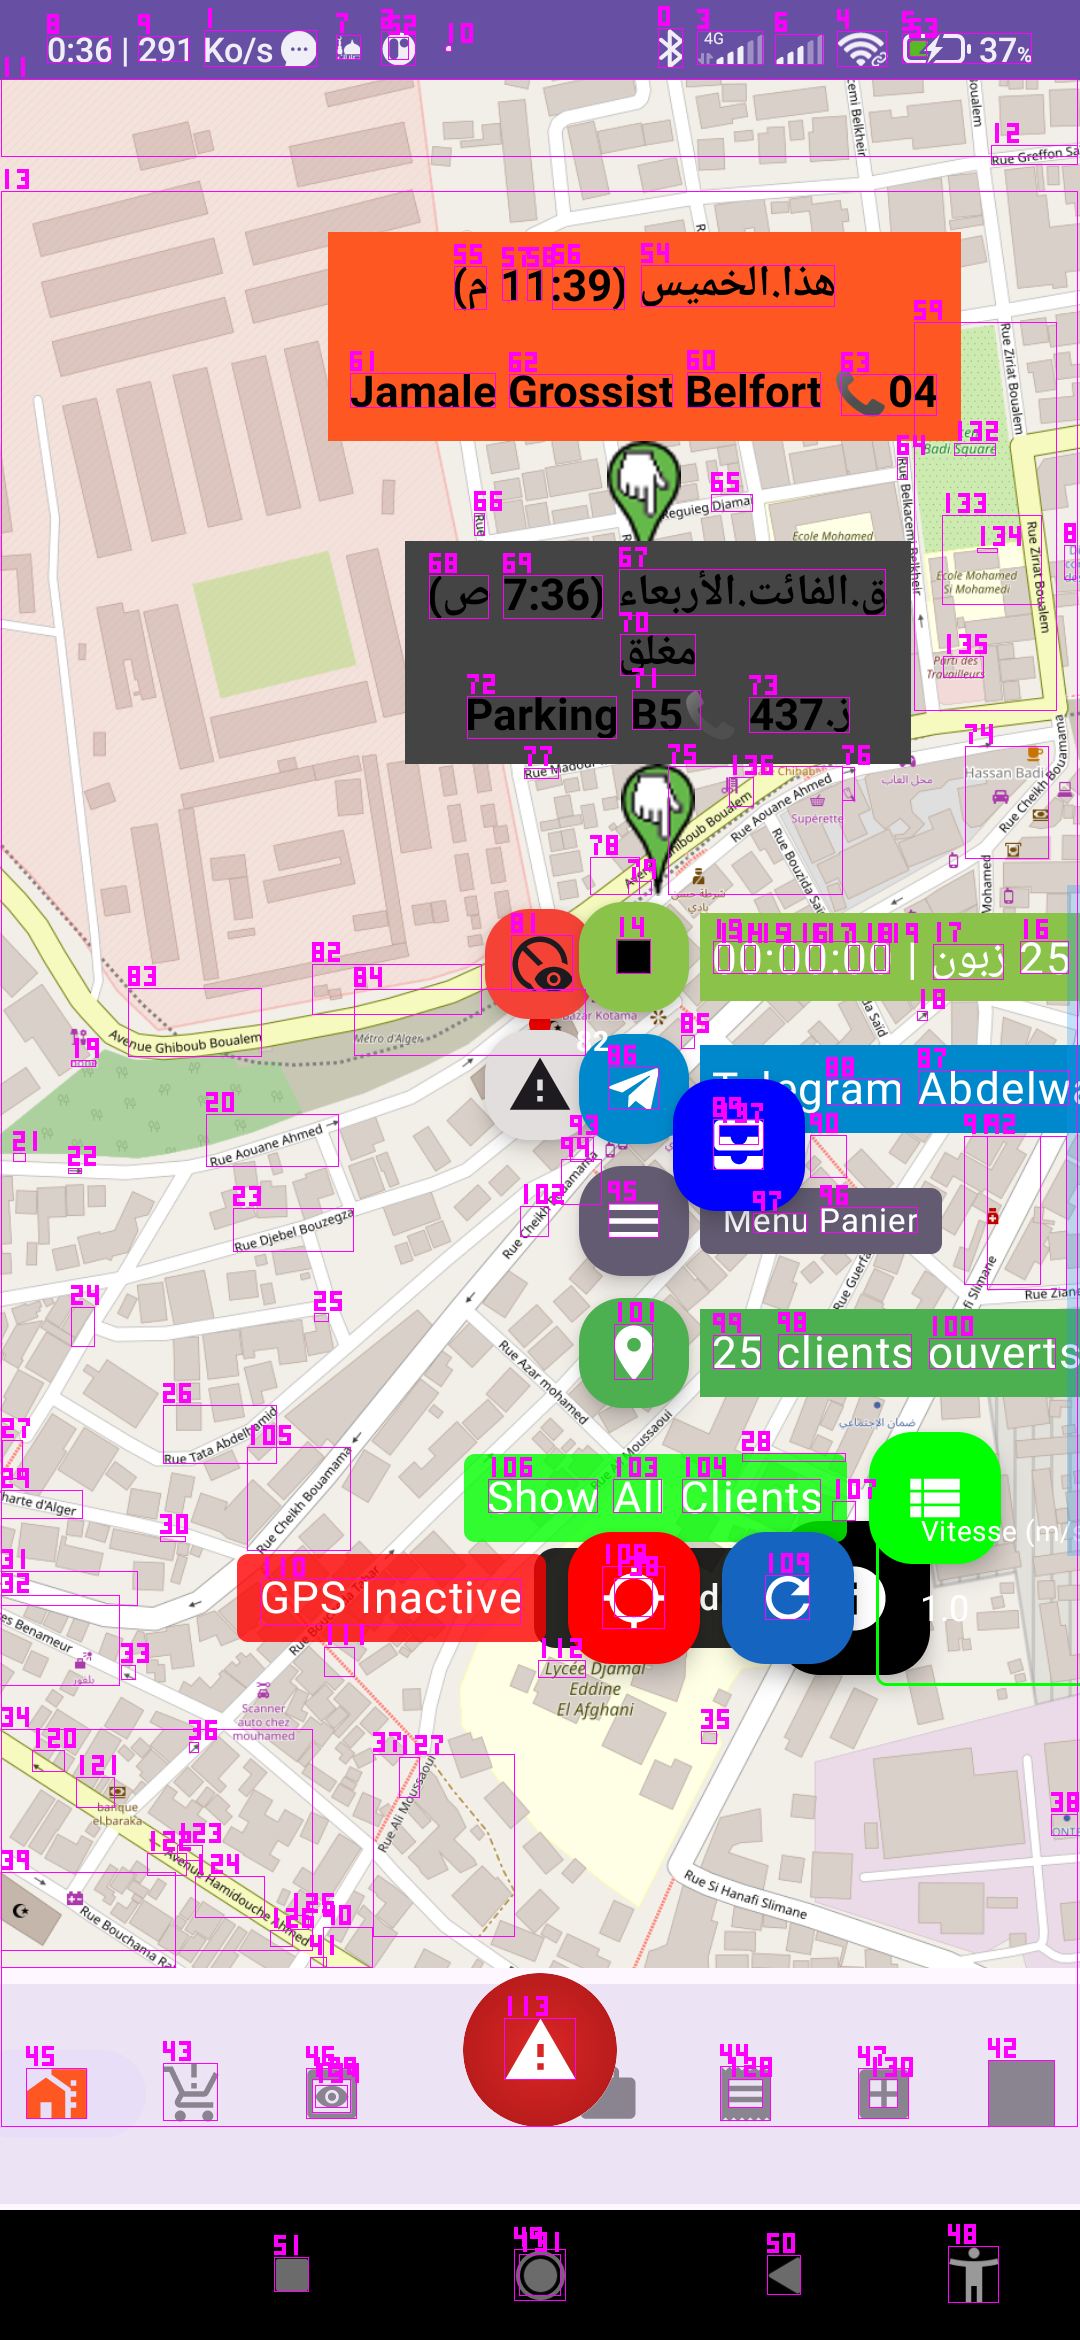
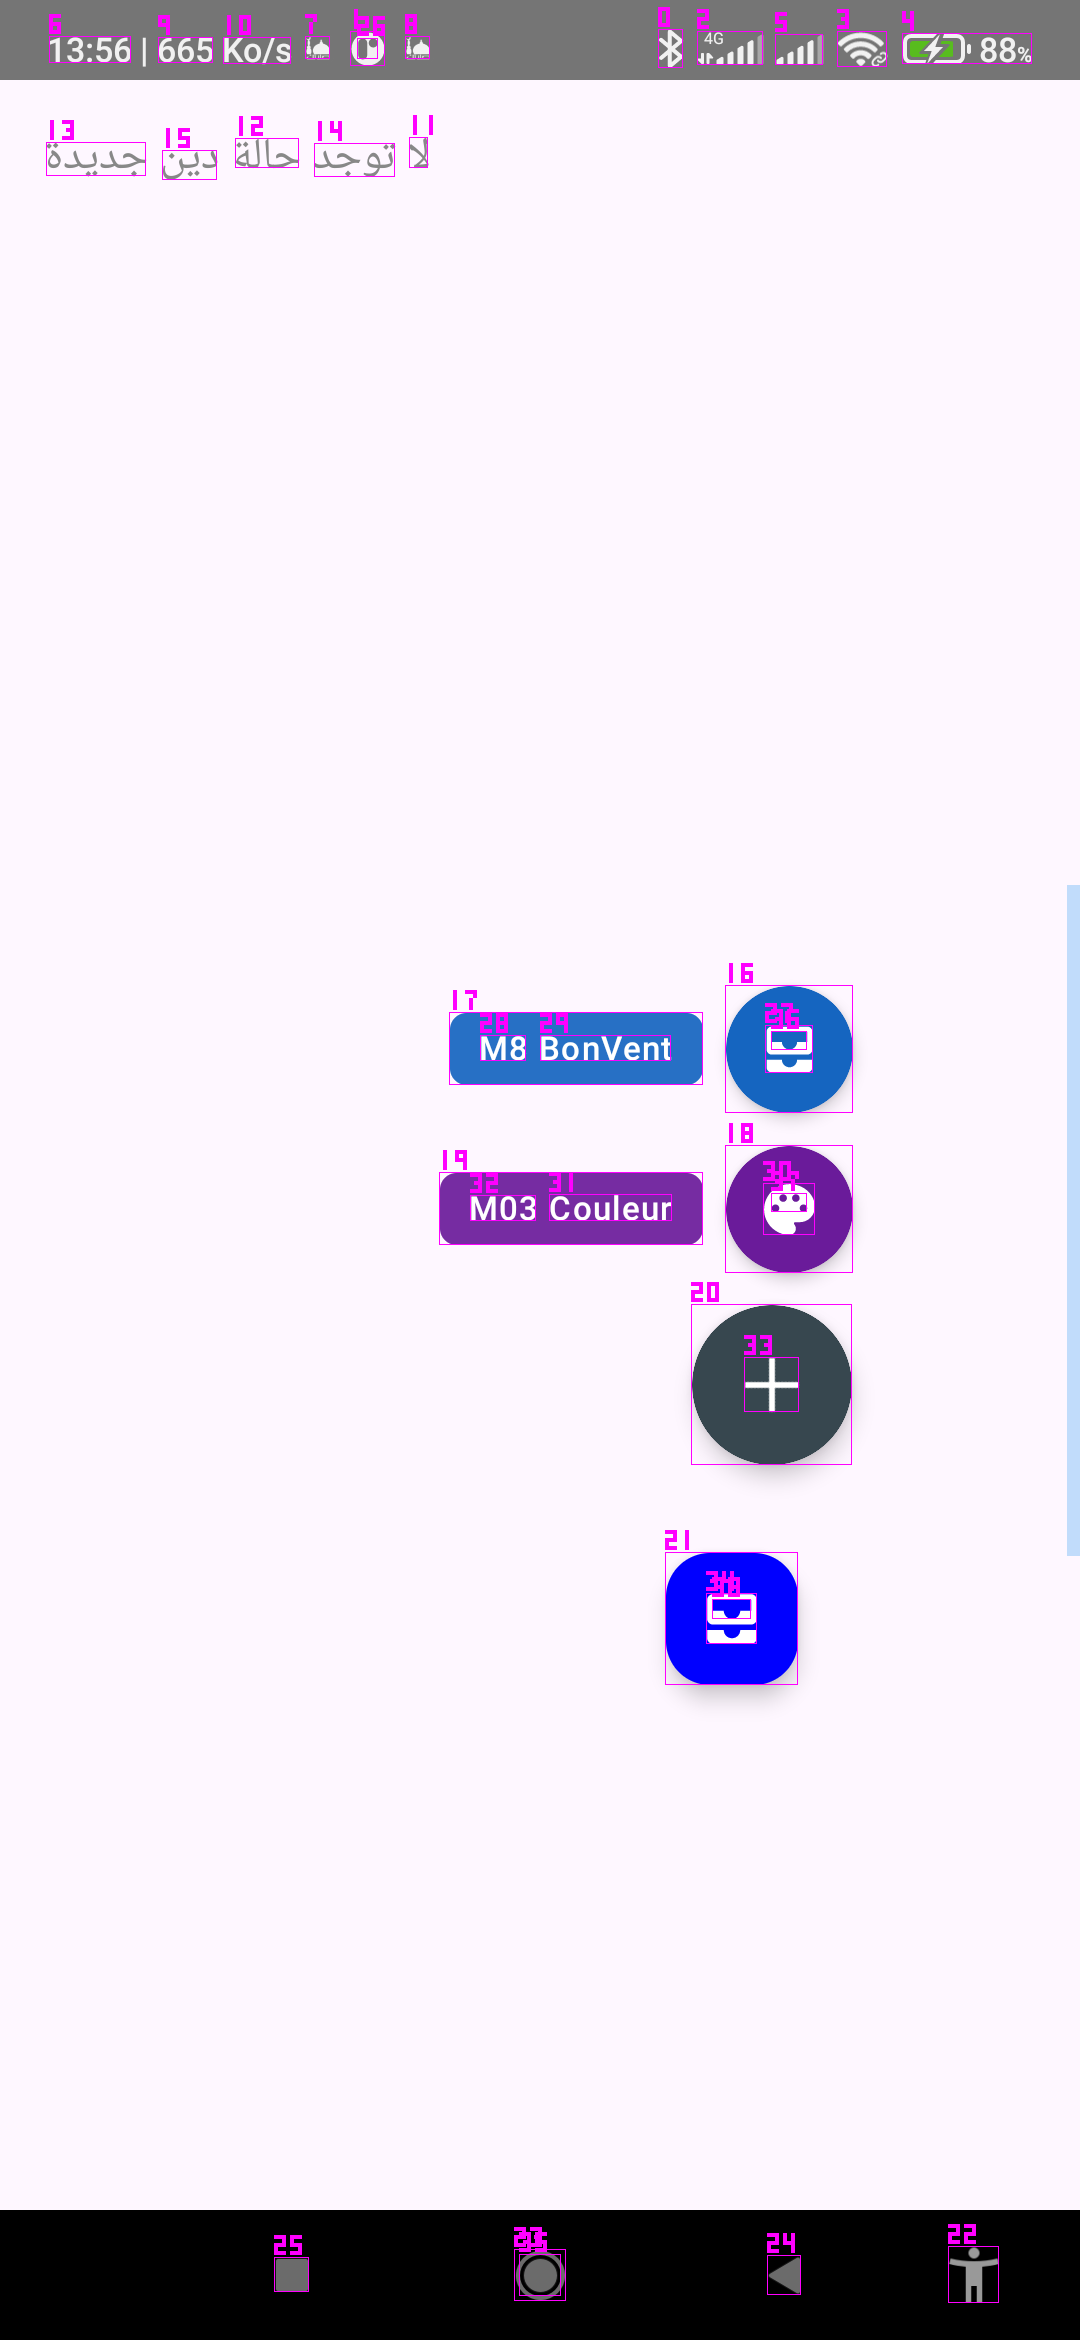
fix: resolve unreachable when branch TODO warning in MainScreen and clean up duplicate floating button call in A_Main_Preview_BonVentEtateScreen

diff --git a/app/src/main/java/com/example/light_app_controles/B/Screens/MainScreen.kt b/app/src/main/java/com/example/light_app_controles/B/Screens/MainScreen.kt
@@ -10,13 +10,14 @@ import com.example.light_app_controles.Modules.Base.SQL.Daos.AppDatabase
 import Working_IN.Feature.a.Test.CleanupScreen
 import androidx.compose.foundation.layout.Box
 import androidx.compose.foundation.layout.fillMaxSize
+import androidx.compose.runtime.remember
 import androidx.compose.ui.semantics.semantics
 import com.example.light_app_controles.B.Screens.Z.Screens.Test.ID1.Client_Map.App.Bon_Vent_Etate.View.ID1.FeatureID1_BigDataBase_Editeur_Par_Csv_Floating_Separated_Button.Feature.Options.a.Main.FeatureID1_BigDataBase_Editeur_Par_Csv_Floating_Separated_Button
 
 enum class Feature {
     CleanupScreen,
     M3CouleurList_Screen,
-
+    Credit_Bon_Whatsapp_Sender,
 }
 
 @SuppressLint("SuspiciousIndentation")
@@ -31,10 +32,11 @@ fun MainScreen(
             }
             .fillMaxSize()
     ) {
-        val activeFeature = Feature.CleanupScreen
+        val activeFeature = remember { Feature.Credit_Bon_Whatsapp_Sender }
         when (activeFeature) {
             Feature.CleanupScreen -> CleanupScreen(appDatabase = appDatabase)
             Feature.M3CouleurList_Screen -> M3CouleurList_Screen()
+            Feature.Credit_Bon_Whatsapp_Sender -> Main_Preview_BonVentEtateScreen()
         }
         FeatureID1_BigDataBase_Editeur_Par_Csv_Floating_Separated_Button(appDatabase = appDatabase)
     }

diff --git a/app/src/main/java/com/example/light_app_controles/B/Screens/Z/Screens/Test/ID1/Client_Map/App/Bon_Vent_Etate/View/a/Screens/a/BonVents/Screen/A_Main_Preview_BonVentEtateScreen.kt b/app/src/main/java/com/example/light_app_controles/B/Screens/Z/Screens/Test/ID1/Client_Map/App/Bon_Vent_Etate/View/a/Screens/a/BonVents/Screen/A_Main_Preview_BonVentEtateScreen.kt
@@ -388,7 +388,6 @@ fun Main_Preview_BonVentEtateScreen(
             }
         }
 
-        FeatureID1_BigDataBase_Editeur_Par_Csv_Floating_Separated_Button(onClick_Lence_Capture = onLenceCapture, appDatabase = appDatabase)
 
         A_FastAdd_FloatingSeparated_Button_1(
             relative_M2Client = relative_M2Client,
